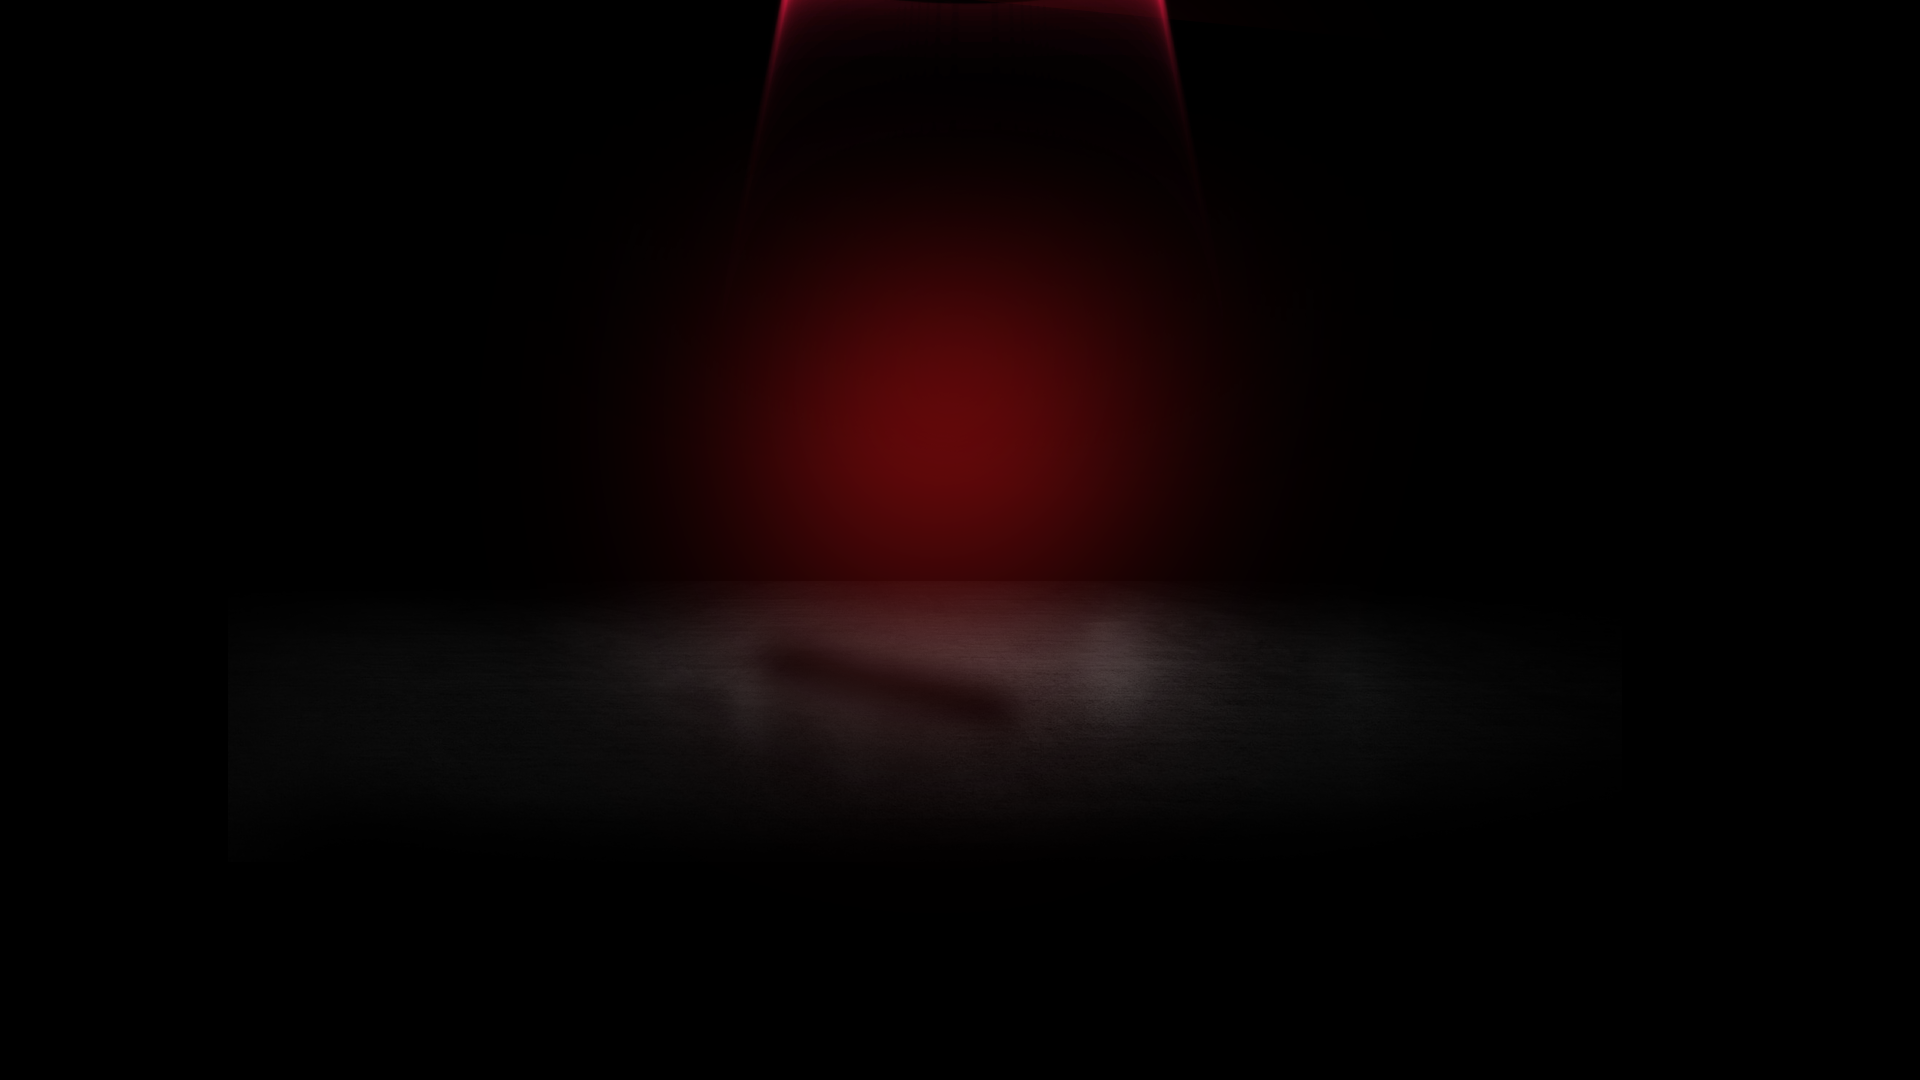
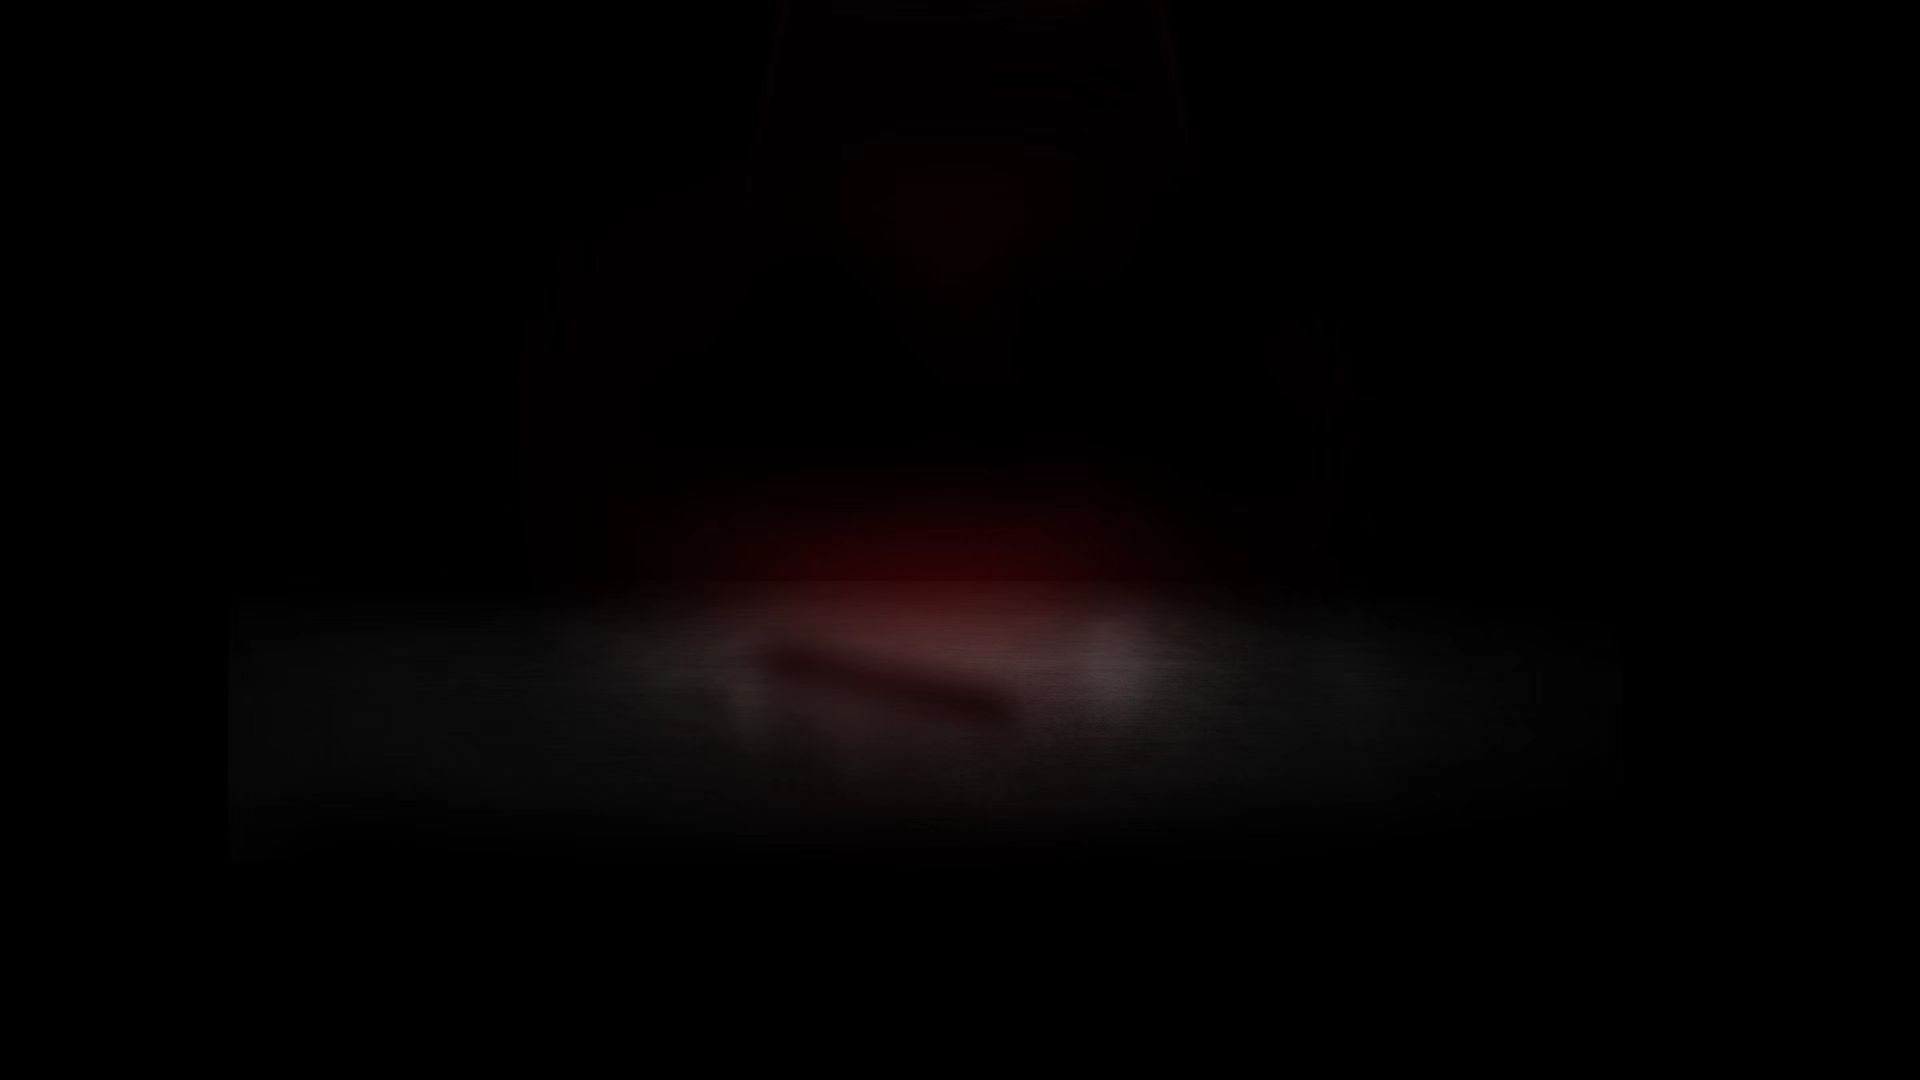
feat:

Changed region(s): [[0.3438, 0.2139, 0.625, 0.5194], [0.375, 0.0, 0.625, 0.0611]]

diff --git a/src/pages/Identity/index.module.less b/src/pages/Identity/index.module.less
@@ -96,12 +96,21 @@
       height: 100vh;
       overflow-y: scroll;
       box-sizing: border-box;
+      &_bg {
+        position: absolute;
+        width: 380px;
+        left: 52%;
+        transform: translateX(-50%);
+        top: -60px;
+        z-index: 88;
+      }
       &_img {
         position: absolute;
         width: 400px;
         left: 50%;
         transform: translateX(-50%);
         top: 100px;
+        z-index: 99;
       }
       &_mySwiper {
         &_item {
@@ -140,6 +149,14 @@
     position: relative;
     &_main {
       text-align: center;
+      position: relative;
+      &_bg {
+        position: absolute;
+        width: 100%;
+        left: 0;
+        top: -60px;
+        z-index: 88;
+      }
       &_img {
         width: 50%;
         margin-bottom: 100px;

diff --git a/src/pages/Identity/index.tsx b/src/pages/Identity/index.tsx
@@ -6,6 +6,7 @@ import 'swiper/css';
 import "swiper/css/pagination";
 import "swiper/css/navigation";
 import identityPng from '../../assets/images/Identity.jpg';
+import identityBgPng from '../../assets/images/Identity/identity.jpg';
 import styles from './index.module.less';
 
 const Identity = () => {
@@ -53,6 +54,10 @@ const Identity = () => {
         renderInfo()
       }
       <div className={`${styles.identity_view_main} ${styles.identity_container}`}>
+        <img
+          src={identityBgPng}
+          className={styles.identity_view_main_bg}
+        />
         <img
           src={identityPng}
           className={styles.identity_view_main_img}
